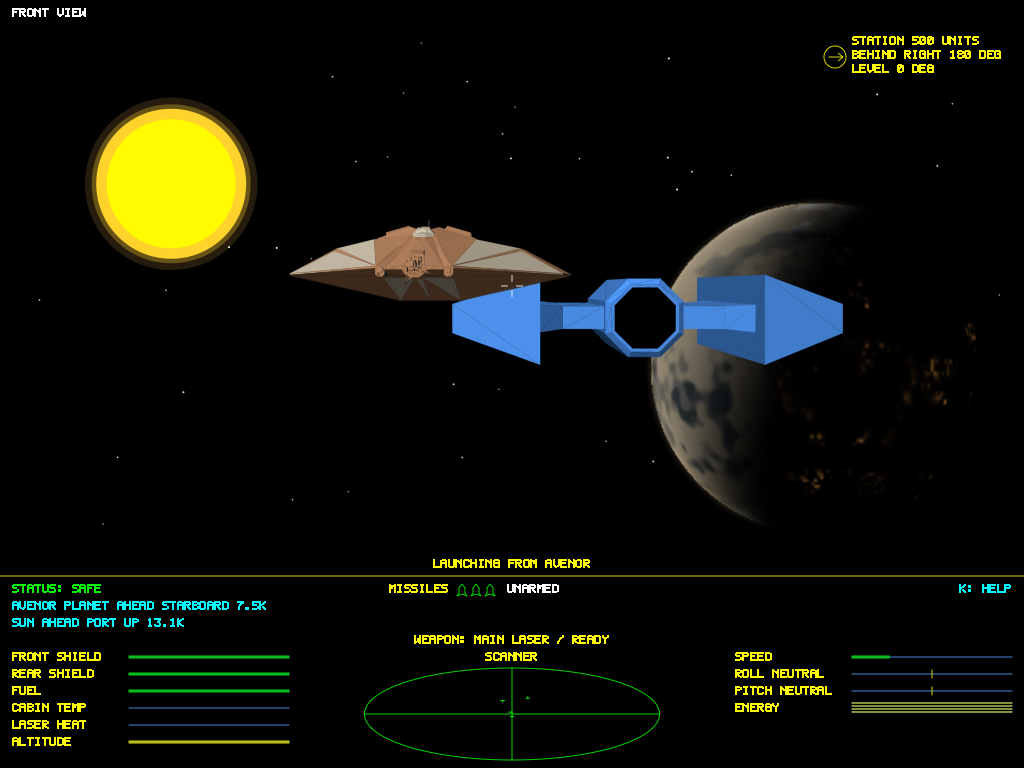
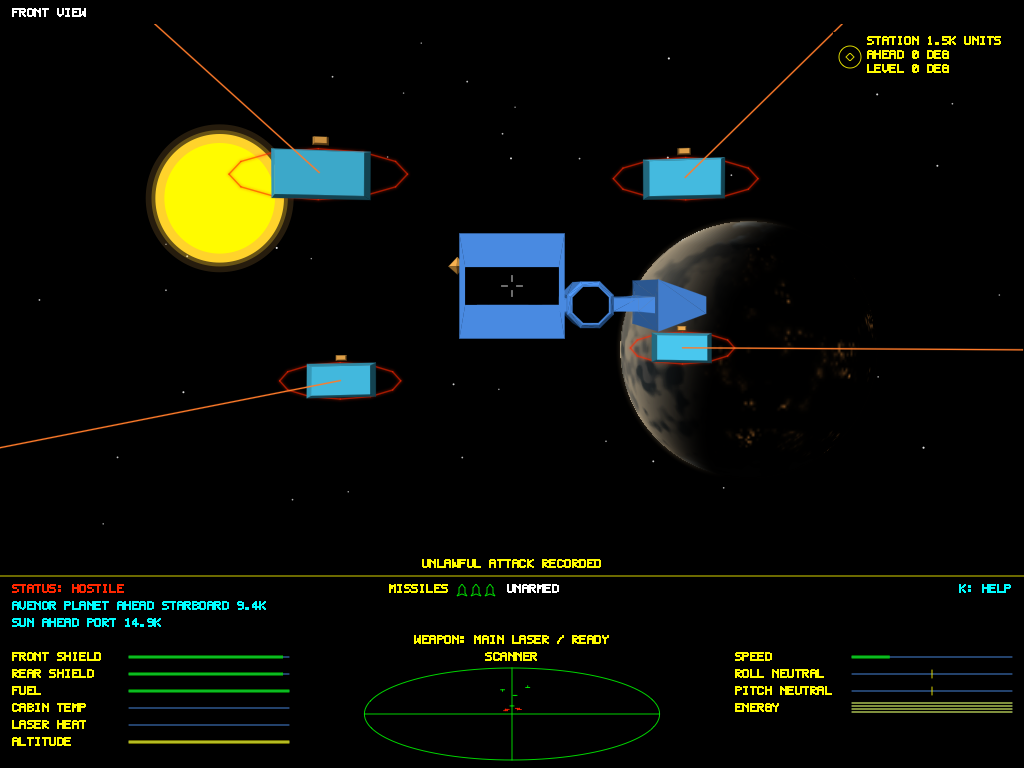
docs(media): add verified full fleet tape and docking capture

diff --git a/README.md b/README.md
@@ -38,15 +38,15 @@ The [completion ledger](docs/COMPLETION-LEDGER.md) is the current player-facing 
 
 ASAN and TSAN are optional manual diagnostics and are no longer required CI or release steps. CI continues to require complete normal tests, coverage, zero leaks, static checks and committed-main SonarQube analysis. Historical sanitizer results remain retained; incomplete runs are not promoted to passes.
 
-![L337 gameplay](docs/l337.png)
+![L337 aligned with a station docking entrance while four hostile ships fire incoming lasers](docs/l337.png)
 
 <!-- markdownlint-disable MD033 -->
 <p align="center">
-  <img src="docs/start-sequence.gif" width="512" alt="L337 demo and launch montage, followed by rotating Gyrfalcon Assault and Stag Liner original designs from the game renderer" />
+  <img src="docs/start-sequence.gif" width="512" alt="L337 startup scenes followed by all 171 gallery ships, each making one and a half rotations with its canonical name and materials" />
 </p>
 <!-- markdownlint-enable MD033 -->
 
-The screenshot and startup montage above are development exports from the game renderer. Browse [all 171 ship animations and specifications](docs/SHIP-CATALOGUE.md) for the authored designs, and [Showroom](docs/SHIP-SHOWROOM.md) for in-game viewing and exchange rules. The [M03 media receipt](docs/evidence/M03-renderer-media.json) records the existing exports; [gallery regeneration evidence](docs/evidence/M03-ship-gallery-regeneration.json) records the ship renders. README media is generated with `make readme-media`; ship animations use `make ships`.
+The screenshot shows the real station entrance aligned for docking while four admitted hostile ships fire their native lasers. The tape includes all 171 gallery ships, each with its canonical name and one and a half rotations. Both are development exports from the game renderer; the [full-fleet media receipt](docs/evidence/M03-full-fleet-readme-media.json) records the verified output. Browse [all 171 ship animations and specifications](docs/SHIP-CATALOGUE.md) and [Showroom](docs/SHIP-SHOWROOM.md) for authored designs and in-game exchange rules. Earlier [M03 media](docs/evidence/M03-renderer-media.json) and [gallery regeneration](docs/evidence/M03-ship-gallery-regeneration.json) receipts remain historical evidence. README media uses `make readme-media`; individual ship animations use `make ships`.
 
 ## Build and run
 
@@ -590,7 +590,7 @@ The SonarQube project is public so its metrics and badges are readable. Analysis
 
 Automatic analysis is disabled, including on the legacy duplicate `stephenlclarke_elite2` project. The authoritative project is `stephenlclarke_elite`, linked by the badges above; its main-only scanner verifies this setting before analysis.
 
-The README screenshot and animated tape are generated from deterministic scenes using the same drawing commands as the live game, following the Pacman and Defender README media convention. Regenerate both with `make readme-media`. The 80-frame tape includes rotating design presentations of Gyrfalcon Assault (SH002) and Stag Liner (SH035), rendered from their authored meshes and materials. Playable hull support is recorded separately in the [completion ledger](docs/COMPLETION-LEDGER.md).
+The README screenshot and animated tape use deterministic scenes and the live game drawing commands, following the Pacman and Defender README media convention. Regenerate both with `make readme-media`. The 1024x768 tape has 6,375 frames: 48 startup frames followed by 37 rotation samples for each of the 171 gallery ships. Each ship makes one and a half rotations with its authored mesh, materials and canonical name. The tape lasts 640.38 seconds and is a 95.5 MB download. The docking screenshot uses four real admitted hostile actors and accepted incoming laser emissions. Playable hull support is recorded separately in the [completion ledger](docs/COMPLETION-LEDGER.md).
 
 ## Fidelity and references
 

diff --git a/docs/COMPLETION-LEDGER.md b/docs/COMPLETION-LEDGER.md
@@ -5709,3 +5709,11 @@ Streaming source reviewda60f3e8/277fcbf0 cleared the exact d5354/b1fe34 six-path
 Owner G1, P2 GIF-APPKIT-PARTICIPATION-01. Actual a64 run41137060943/a1 PlanningTests had7PASS1ERROR and nativeSKIP because ReadmeGIFStreamTests was absent from current33-source/175-member AppKit audit. Reserve ONLY sanitizer_groups.json source pin+four members, test_recoverable_shards.py matching count fixture, paired291notes and this append. Existing175 member order/33 pins/reason/routes and salvage13/2 preserved. Proposed successor34 sources179 members; existing regression remains meaningful, all fake/newMac tests UNRUN on this child. No c578 preservation/installation/native execution or oldhead passing rerun. Next exact source-only correction review, then maintained8-method fake class and fresh corrected-head full native qualification. GIF implementation source clear da60 remains unchanged.
 
 AppKit correction source reviewb6928cb8 cleared exactccb165/e052. Actual maintained PlanningTests8/8PASS (unittest0.201s), immutable resultddae311228142362e9b0499d64627b187977cd6f00594c905217ae2f6f9dda08. Oldhosted7PASS1ERROR/nativeSKIP retained. G1 preparing corrected committedhead/event; no fourMac/fullnative/RSS/output/main/release promotion from these fake-only results.
+
+### M03 full-fleet media source and actual output verified (2026-10-31)
+
+Owner G1 completed the source41d7e73d/executiona85400eb qualification in run41139017695/a2:3,445 unique methods (3,439PASS/six declaredSKIP/zero failures/errors),403 suites,90.5420% coverage and zero leaks/zero bytes with lifecyclePASS. Four new GIF tests and four native scene/rotation methods/174 cases passed. All21 source checks and independent actual result review00428936 passed; runner cleanup is complete at used1/max1 and all49 old states are unchanged.
+
+The one exact reviewed renderer982198 completed under the unchanged2.25-GiB bound in125.762 seconds. App/input/compiler context matched before/after; numeric peak RSS is unknown because the asset guard retains no sample history. Actual output has6,375 decoded opaque1024x768 frames,171 ships with37 samples each through1.5 turns, stable distinct captions and640.38 seconds of looping animation. The95,470,946-byte GIF and129,575-byte aligned-docking/four-native-incoming-laser PNG passed independent actual output review3f90b721/full decode. A suspected preview caption omission was disproved by exact pixels and retracted; all original evidence remains preserved. See [the full-fleet receipt](evidence/M03-full-fleet-readme-media.json).
+
+G1 now composes only the accepted seven asset/documentation paths into PR294, preserving every runtime/test/SDK/Lua/GIF/Makefile/AppKit34/179 byte and the published historical installation block. Next handoff is one bounded committed-composition/final-head review, required final-head checks and ordinary protected merge, then actual committed-main normal/leaks/exact-SHA Sonar (including six old Lua findings), one history-derived release plan and signed/notarized public trust verification. No new L337 public release is claimed. Physical trackpad/window acceptance remains pending. All later reviewed source-only component/reconciliation/documentation packets stay unapplied and UNRUN; their reviews do not qualify current runtime behavior.

diff --git a/docs/ISSUE-291-readme-gallery-docking-media.md b/docs/ISSUE-291-readme-gallery-docking-media.md
@@ -35,3 +35,11 @@ The existing actually failing audited-group regression is retained as the correc
 ## Corrected AppKit planning regression result
 
 After independent source/fake-route reviewb6928cb8, G1 applied the exact ccb165/e052 correction on the owned branch and ran the maintained PlanningTests class from Tools/CI. All eight fake methods passed (0.201 seconds reported by unittest); resultddae3112 and the raw log are retained. The original hosted7PASS1ERROR remains unchanged. This is fake planning evidence only: four ImageIO methods and the changed-head full native/render gates remain UNRUN/pending. A new committed head/event is required; c578 authority and its failed event are not reused.
+
+## Actual full-fleet media qualification (31 October 2026)
+
+Source41d7e73d/executiona85400eb passed real run41139017695 attempt2:3,445 unique methods,3,439 passes, six declared skips and zero failures/errors in403 framework suites. Coverage is116,198/128,336 lines (90.5420%). The four new GIF writer methods and four native scene/rotation methods (174 framework cases) passed. The normal compiler reported267.87 seconds; its wrapper took269.197 seconds and tests2755.447 seconds. Leak validation found zero leaks/zero bytes and passed the actor/frame lifecycle check; its compiler reported162.98 seconds, wrapper163.823 seconds and diagnostics167.040 seconds. All21 final source checks passed. The finite runner exited0, removed registration and retained used1/max1; all49 prior state hashes remain unchanged. Actual result review00428936 is clear. The earlier failures above remain historical evidence.
+
+The exact reviewed982198 renderer body then ran once under the unchanged2.25-GiB asset guard. It exited0 in125.762 seconds; its cached native build reported0.42 seconds. Appf1c79828 and all2,887 executable inputs, compiler selectors and current Swiftly metadata matched before and after. No numeric peak RSS was recorded by this guard. The95,470,946-byte GIF contains6,375 opaque1024x768 frames:48 startup frames and171 groups of37 yaw samples through3pi, lasting640.38 seconds with infinite looping. Every frame decoded; every gallery title/footer stayed identical and nonblack, and each ship retained a distinct caption across all37 samples. The129,575-byte PNG shows the real aligned station port and four visible accepted native incoming laser emissions. Independent actual output review3f90b721 and its full decode are clear.
+
+An apparent missing-caption preview was investigated and retracted: exact GIF/PNG pixel checks and independent decoding contain the labels. No source/output defect was established, no fix or second render was made, and the original observation plus its append-only correction remain retained. [Portable full-fleet evidence](evidence/M03-full-fleet-readme-media.json) records the actual results, output hashes and review bindings. This seven-path asset/documentation child preserves runtime/test/SDK/Lua/GIF/Makefile/AppKit34/179 bytes and published installation/history. Final changed-head checks, ordinary protected merge, fresh committed-main normal/leaks/Sonar and signed/notarized public delivery remain pending. This is no new playable release claim.

diff --git a/docs/PR-291-readme-gallery-docking-media.md b/docs/PR-291-readme-gallery-docking-media.md
@@ -57,3 +57,11 @@ The existing actually failing audited-group regression is retained as the correc
 ## Corrected AppKit planning regression result
 
 After independent source/fake-route reviewb6928cb8, G1 applied the exact ccb165/e052 correction on the owned branch and ran the maintained PlanningTests class from Tools/CI. All eight fake methods passed (0.201 seconds reported by unittest); resultddae3112 and the raw log are retained. The original hosted7PASS1ERROR remains unchanged. This is fake planning evidence only: four ImageIO methods and the changed-head full native/render gates remain UNRUN/pending. A new committed head/event is required; c578 authority and its failed event are not reused.
+
+## Actual full-fleet media qualification (31 October 2026)
+
+Source41d7e73d/executiona85400eb passed real run41139017695 attempt2:3,445 unique methods,3,439 passes, six declared skips and zero failures/errors in403 framework suites. Coverage is116,198/128,336 lines (90.5420%). The four new GIF writer methods and four native scene/rotation methods (174 framework cases) passed. The normal compiler reported267.87 seconds; its wrapper took269.197 seconds and tests2755.447 seconds. Leak validation found zero leaks/zero bytes and passed the actor/frame lifecycle check; its compiler reported162.98 seconds, wrapper163.823 seconds and diagnostics167.040 seconds. All21 final source checks passed. The finite runner exited0, removed registration and retained used1/max1; all49 prior state hashes remain unchanged. Actual result review00428936 is clear. The earlier failures above remain historical evidence.
+
+The exact reviewed982198 renderer body then ran once under the unchanged2.25-GiB asset guard. It exited0 in125.762 seconds; its cached native build reported0.42 seconds. Appf1c79828 and all2,887 executable inputs, compiler selectors and current Swiftly metadata matched before and after. No numeric peak RSS was recorded by this guard. The95,470,946-byte GIF contains6,375 opaque1024x768 frames:48 startup frames and171 groups of37 yaw samples through3pi, lasting640.38 seconds with infinite looping. Every frame decoded; every gallery title/footer stayed identical and nonblack, and each ship retained a distinct caption across all37 samples. The129,575-byte PNG shows the real aligned station port and four visible accepted native incoming laser emissions. Independent actual output review3f90b721 and its full decode are clear.
+
+An apparent missing-caption preview was investigated and retracted: exact GIF/PNG pixel checks and independent decoding contain the labels. No source/output defect was established, no fix or second render was made, and the original observation plus its append-only correction remain retained. [Portable full-fleet evidence](evidence/M03-full-fleet-readme-media.json) records the actual results, output hashes and review bindings. This seven-path asset/documentation child preserves runtime/test/SDK/Lua/GIF/Makefile/AppKit34/179 bytes and published installation/history. Final changed-head checks, ordinary protected merge, fresh committed-main normal/leaks/Sonar and signed/notarized public delivery remain pending. This is no new playable release claim.
